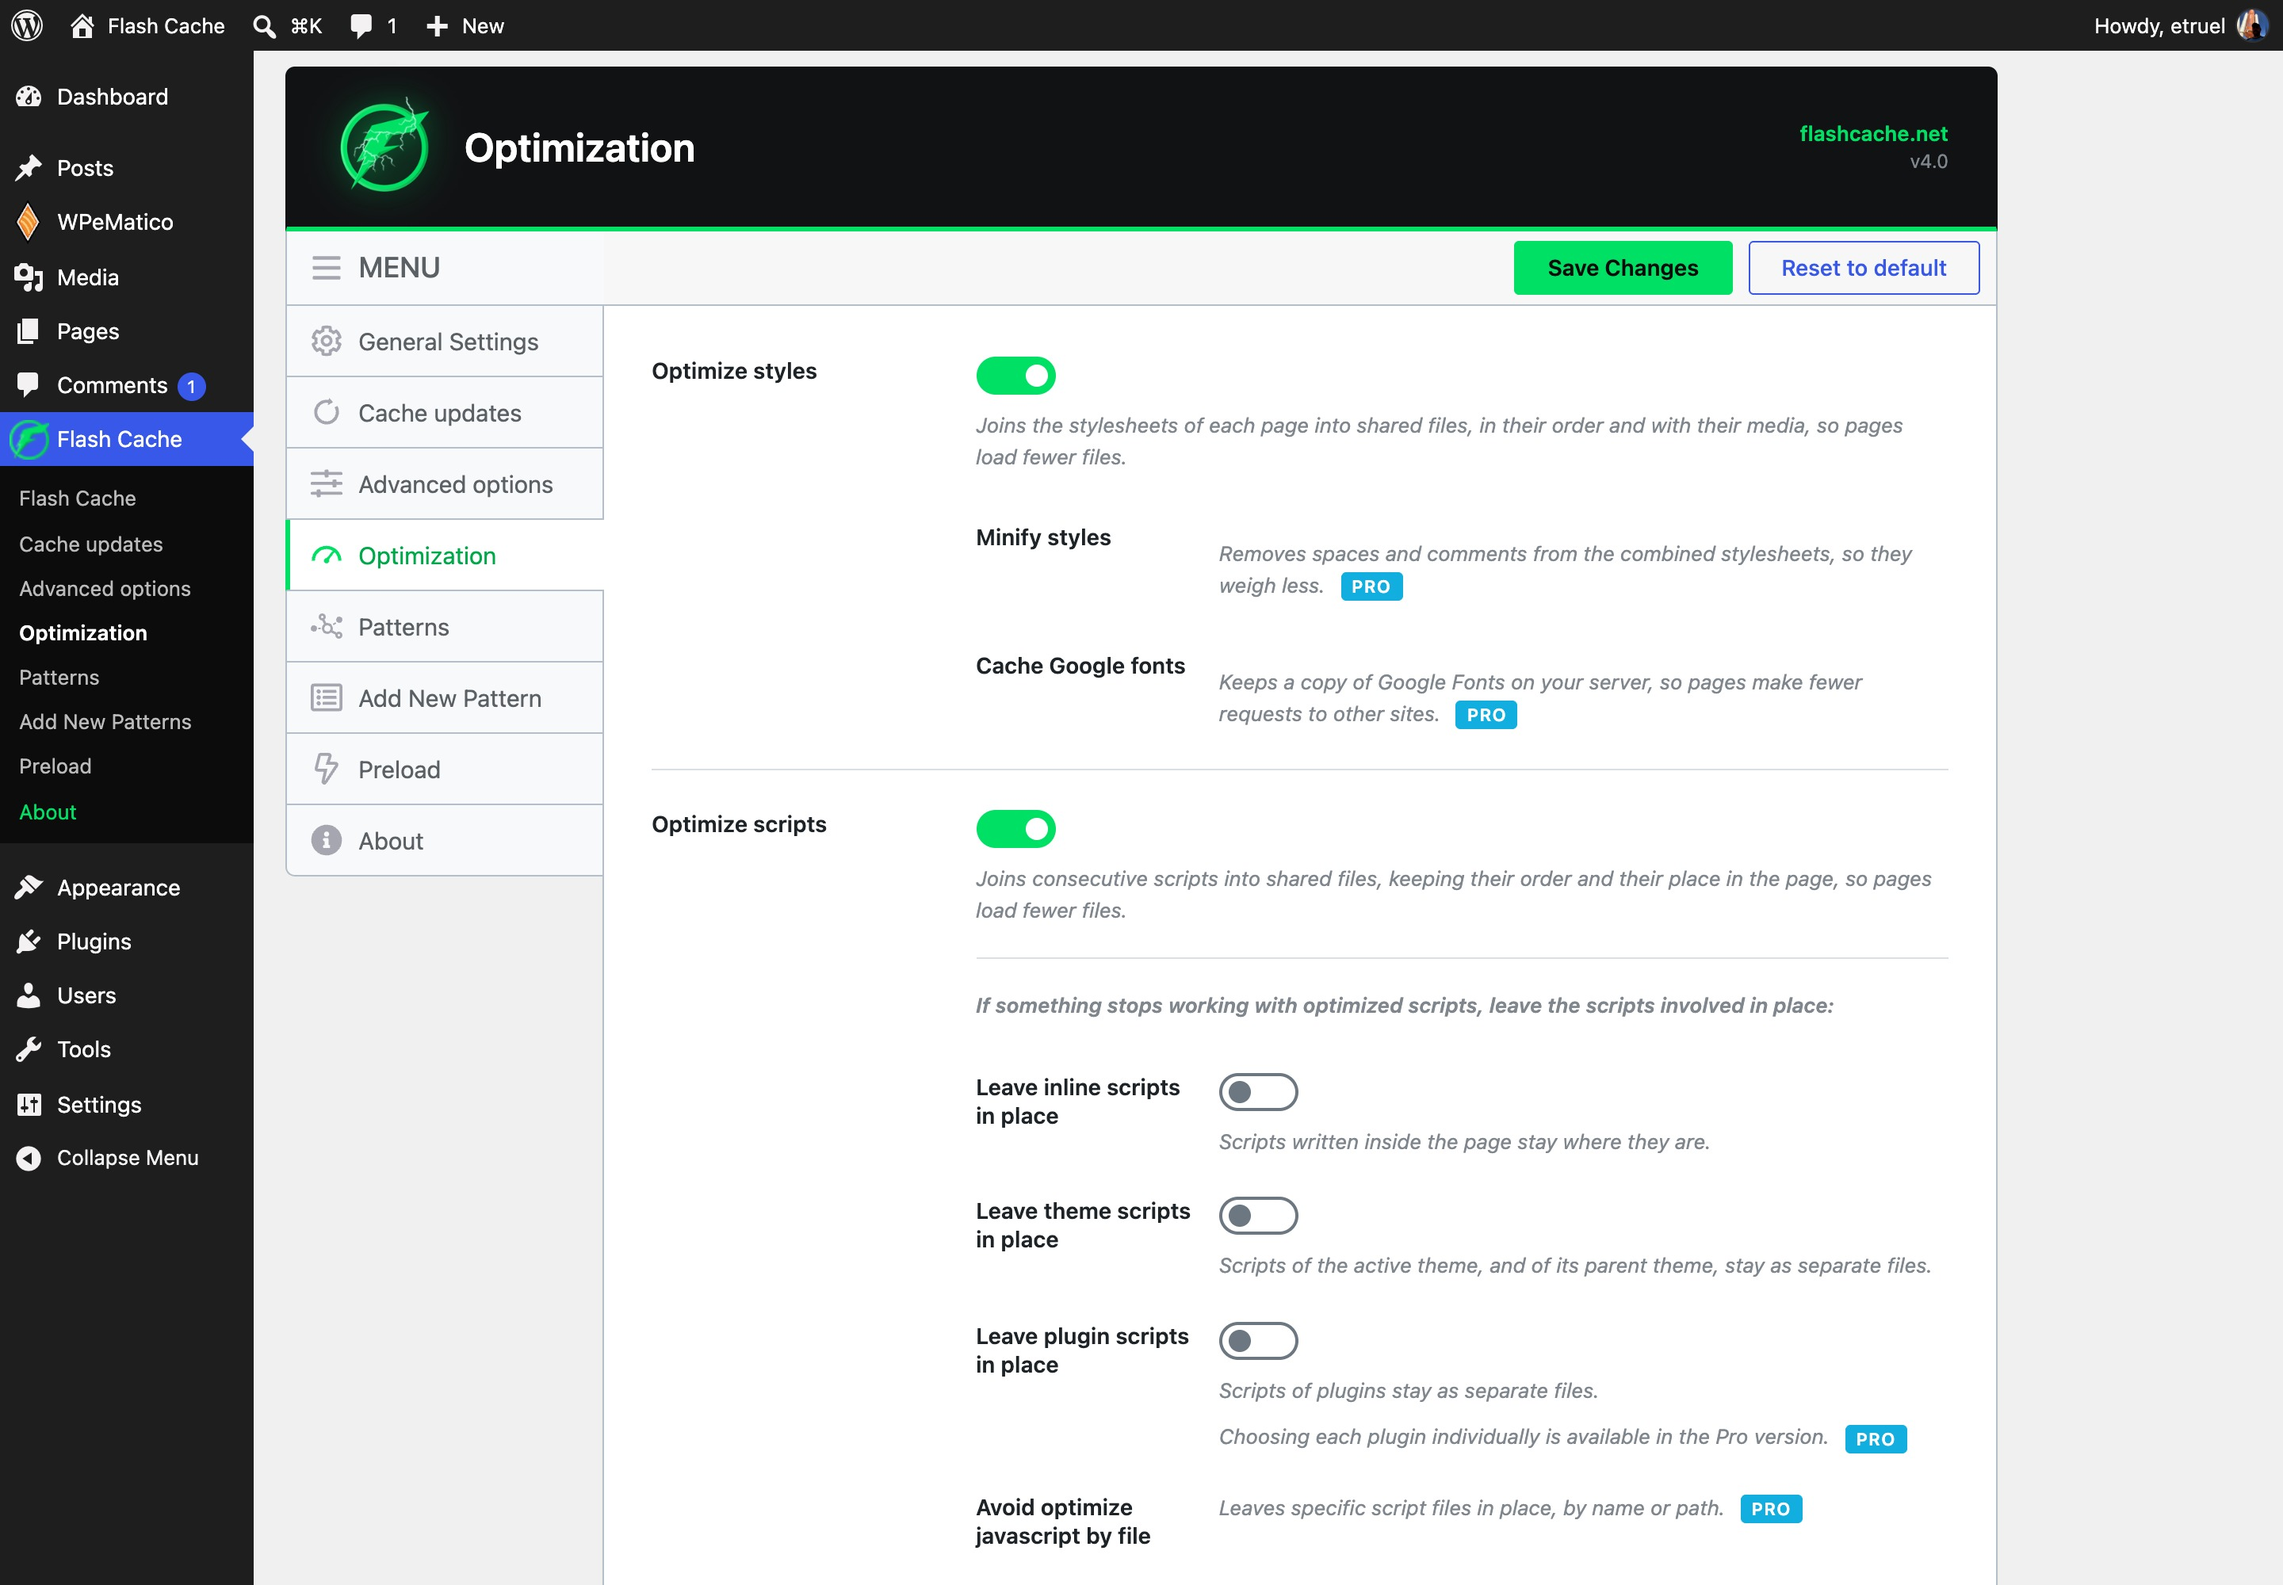
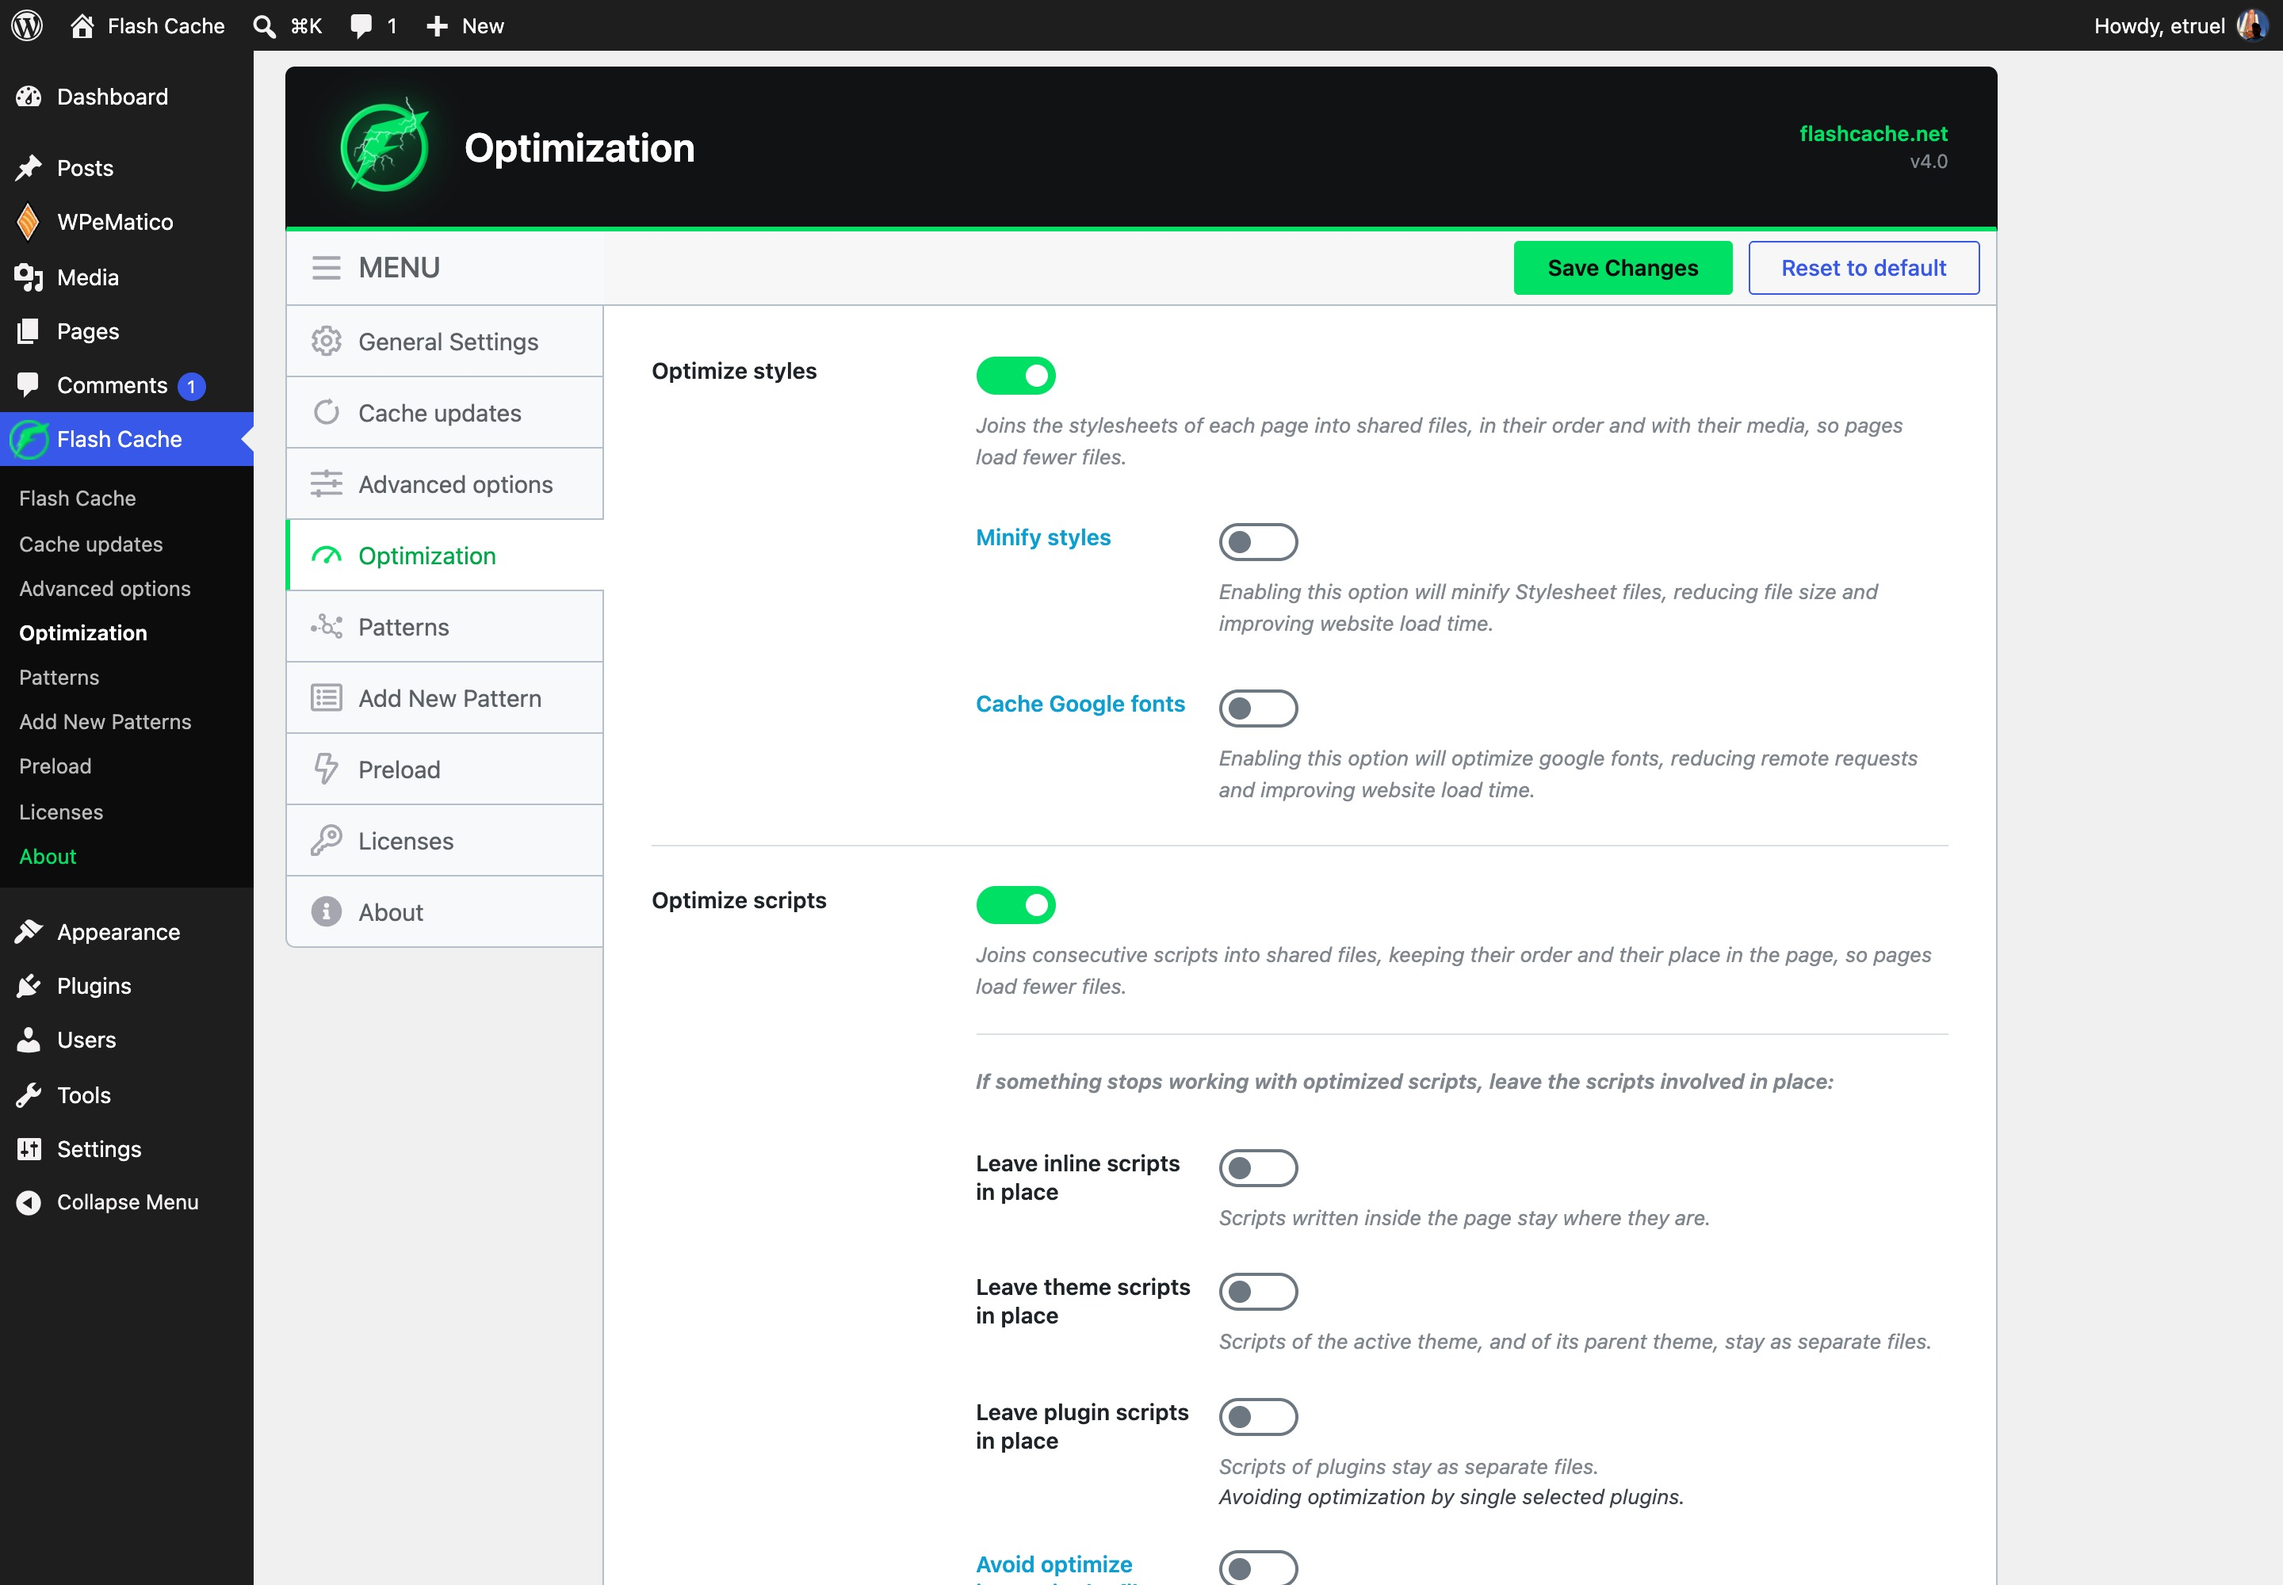
Optimization screenshot with the Professional Addon

diff --git a/README.md b/README.md
@@ -83,7 +83,7 @@ Manually: upload the `flash-cache` folder to `/wp-content/plugins/` and activate
 *Cache updates: how pages are created, refreshed and replaced after design changes.*
 
 ![Optimization](screenshot-3.jpg)
-*Optimization: combine styles and scripts, and leave anything that needs it in place.*
+*Optimization with Professional Addon: combine styles and scripts, and leave anything that needs it in place.*
 
 ![Patterns](screenshot-4.jpg)
 *Patterns: one set of rules for each kind of page, in the order you choose.*
